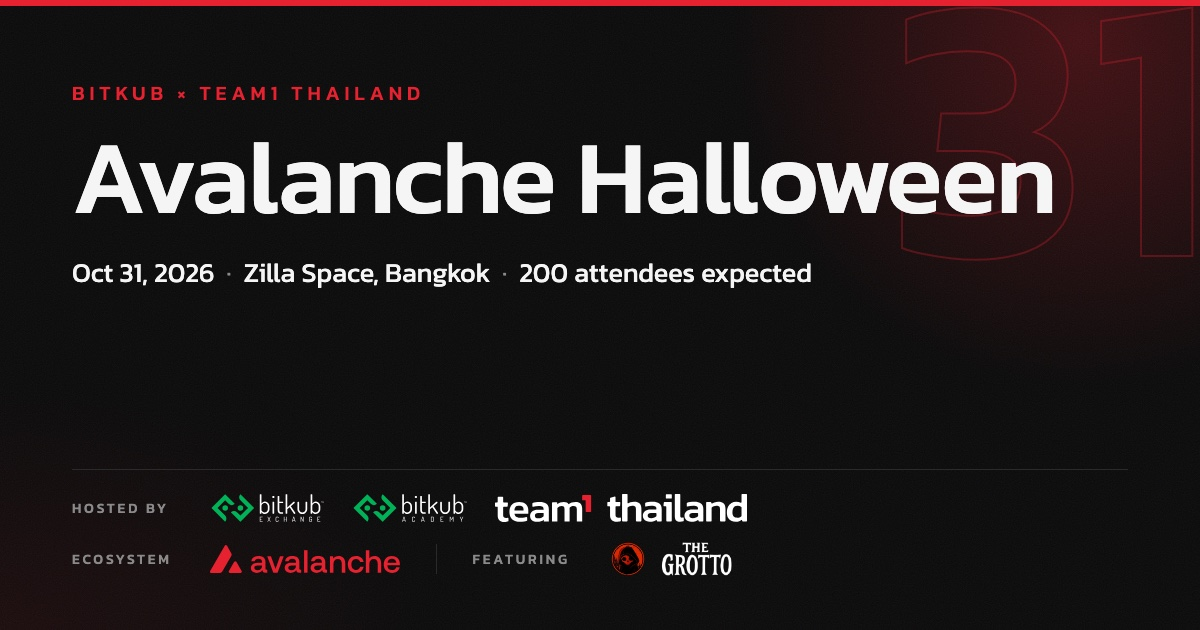
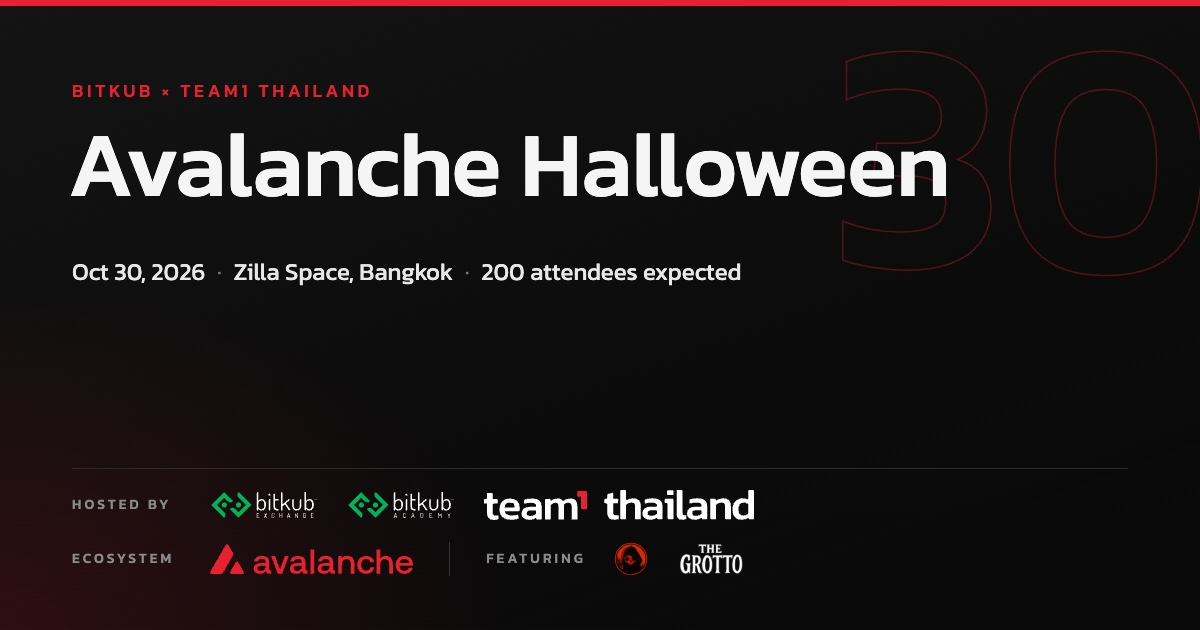
halloween: the event is Friday 30 October
Sponsor page text, date mark, link previews and share image move from 31 to 30 October.
Prototype C tags @BitkubOfficial in the prefilled post.

diff --git a/public/halloween/index.html b/public/halloween/index.html
@@ -4,16 +4,16 @@
 <meta charset="UTF-8" />
 <meta name="viewport" content="width=device-width, initial-scale=1.0" />
 <title>Avalanche Halloween — Bitkub × team1 Thailand</title>
-<meta name="description" content="Oct 31, 2026 at Zilla Space, Bitkub's event space in Bangkok. 200 attendees expected. Booth, Merch and Stage partner packages for Avalanche ecosystem projects." />
+<meta name="description" content="Oct 30, 2026 at Zilla Space, Bitkub's event space in Bangkok. 200 attendees expected. Booth, Merch and Stage partner packages for Avalanche ecosystem projects." />
 <link rel="canonical" href="https://www.shamwise.com/halloween" />
 <meta property="og:type" content="website" />
 <meta property="og:title" content="Avalanche Halloween — Bitkub × team1 Thailand" />
-<meta property="og:description" content="Oct 31, 2026 · Zilla Space, Bangkok · 200 attendees expected. Put your project in front of Thailand's builders, Bitkub's community and the Thai web3 scene in one room." />
+<meta property="og:description" content="Oct 30, 2026 · Zilla Space, Bangkok · 200 attendees expected. Put your project in front of Thailand's builders, Bitkub's community and the Thai web3 scene in one room." />
 <meta property="og:image" content="https://www.shamwise.com/halloween/assets/og-image.jpg" />
 <meta property="og:url" content="https://www.shamwise.com/halloween" />
 <meta name="twitter:card" content="summary_large_image" />
 <meta name="twitter:title" content="Avalanche Halloween — Bitkub × team1 Thailand" />
-<meta name="twitter:description" content="Oct 31, 2026 · Zilla Space, Bangkok · 200 attendees expected. Partner packages from $550." />
+<meta name="twitter:description" content="Oct 30, 2026 · Zilla Space, Bangkok · 200 attendees expected. Partner packages from $550." />
 <meta name="twitter:image" content="https://www.shamwise.com/halloween/assets/og-image.jpg" />
 <meta name="theme-color" content="#0a0a0a" />
 <link rel="icon" href="/favicon.svg" />
@@ -239,11 +239,11 @@
 </div>
 
 <header class="hero" id="top">
-  <div class="date-mark" aria-hidden="true">31</div>
+  <div class="date-mark" aria-hidden="true">30</div>
   <div class="wrap">
     <div class="kicker">Bitkub × team1 Thailand</div>
     <h1>Avalanche Halloween</h1>
-    <p class="meta">Oct 31, 2026<span>·</span>Zilla Space, Bangkok<span>·</span>200 attendees expected</p>
+    <p class="meta">Oct 30, 2026<span>·</span>Zilla Space, Bangkok<span>·</span>200 attendees expected</p>
     <p class="line">Team1 Thailand's Phase 1 milestone night. Put your project in front of Thailand's builders, Bitkub's community and the Thai web3 scene in one room.</p>
     <div class="ctas">
       <a class="btn" href="#packages">Become a partner</a>

diff --git a/public/halloween-lab/c/index.html b/public/halloween-lab/c/index.html
@@ -364,7 +364,7 @@ function xtask(k){
   if(t.kind==='repost')return sheet(`<h3>${esc(t.t)}</h3><p class="sm mu">X opens on the post. Repost it, come back, and we check it.</p>
     <div class="rowbtns"><button class="btn" data-act="xopen" data-v="${k}">Open the post ↗</button><button class="btn pri" data-act="xcheck" data-v="${k}">Check</button></div>${skip}`);
   sheet(`<h3>${esc(t.t)}</h3><p class="sm mu">X opens with this filled in. Add your photo there, post it, and come back. We find your post ourselves.</p>
-    <div class="cap">Haunting ${esc(EVENT.venue)} tonight 🎃 Avalanche Halloween with @Team1TH @AvaxTeam1 @Bitkub #AvalancheHalloween</div>
+    <div class="cap">Haunting ${esc(EVENT.venue)} tonight 🎃 Avalanche Halloween with @Team1TH @AvaxTeam1 @BitkubOfficial #AvalancheHalloween</div>
     <div class="rowbtns"><button class="btn" data-act="xopen" data-v="${k}">Tweet on X ↗</button><button class="btn pri" data-act="xcheck" data-v="${k}">Find my post</button></div>
     <details class="sm mu"><summary>Didn’t find it?</summary><p style="margin-top:8px">Paste your post link instead.</p><input class="in" placeholder="https://x.com/…/status/…" style="margin-top:6px"></details>${skip}`);
 }
